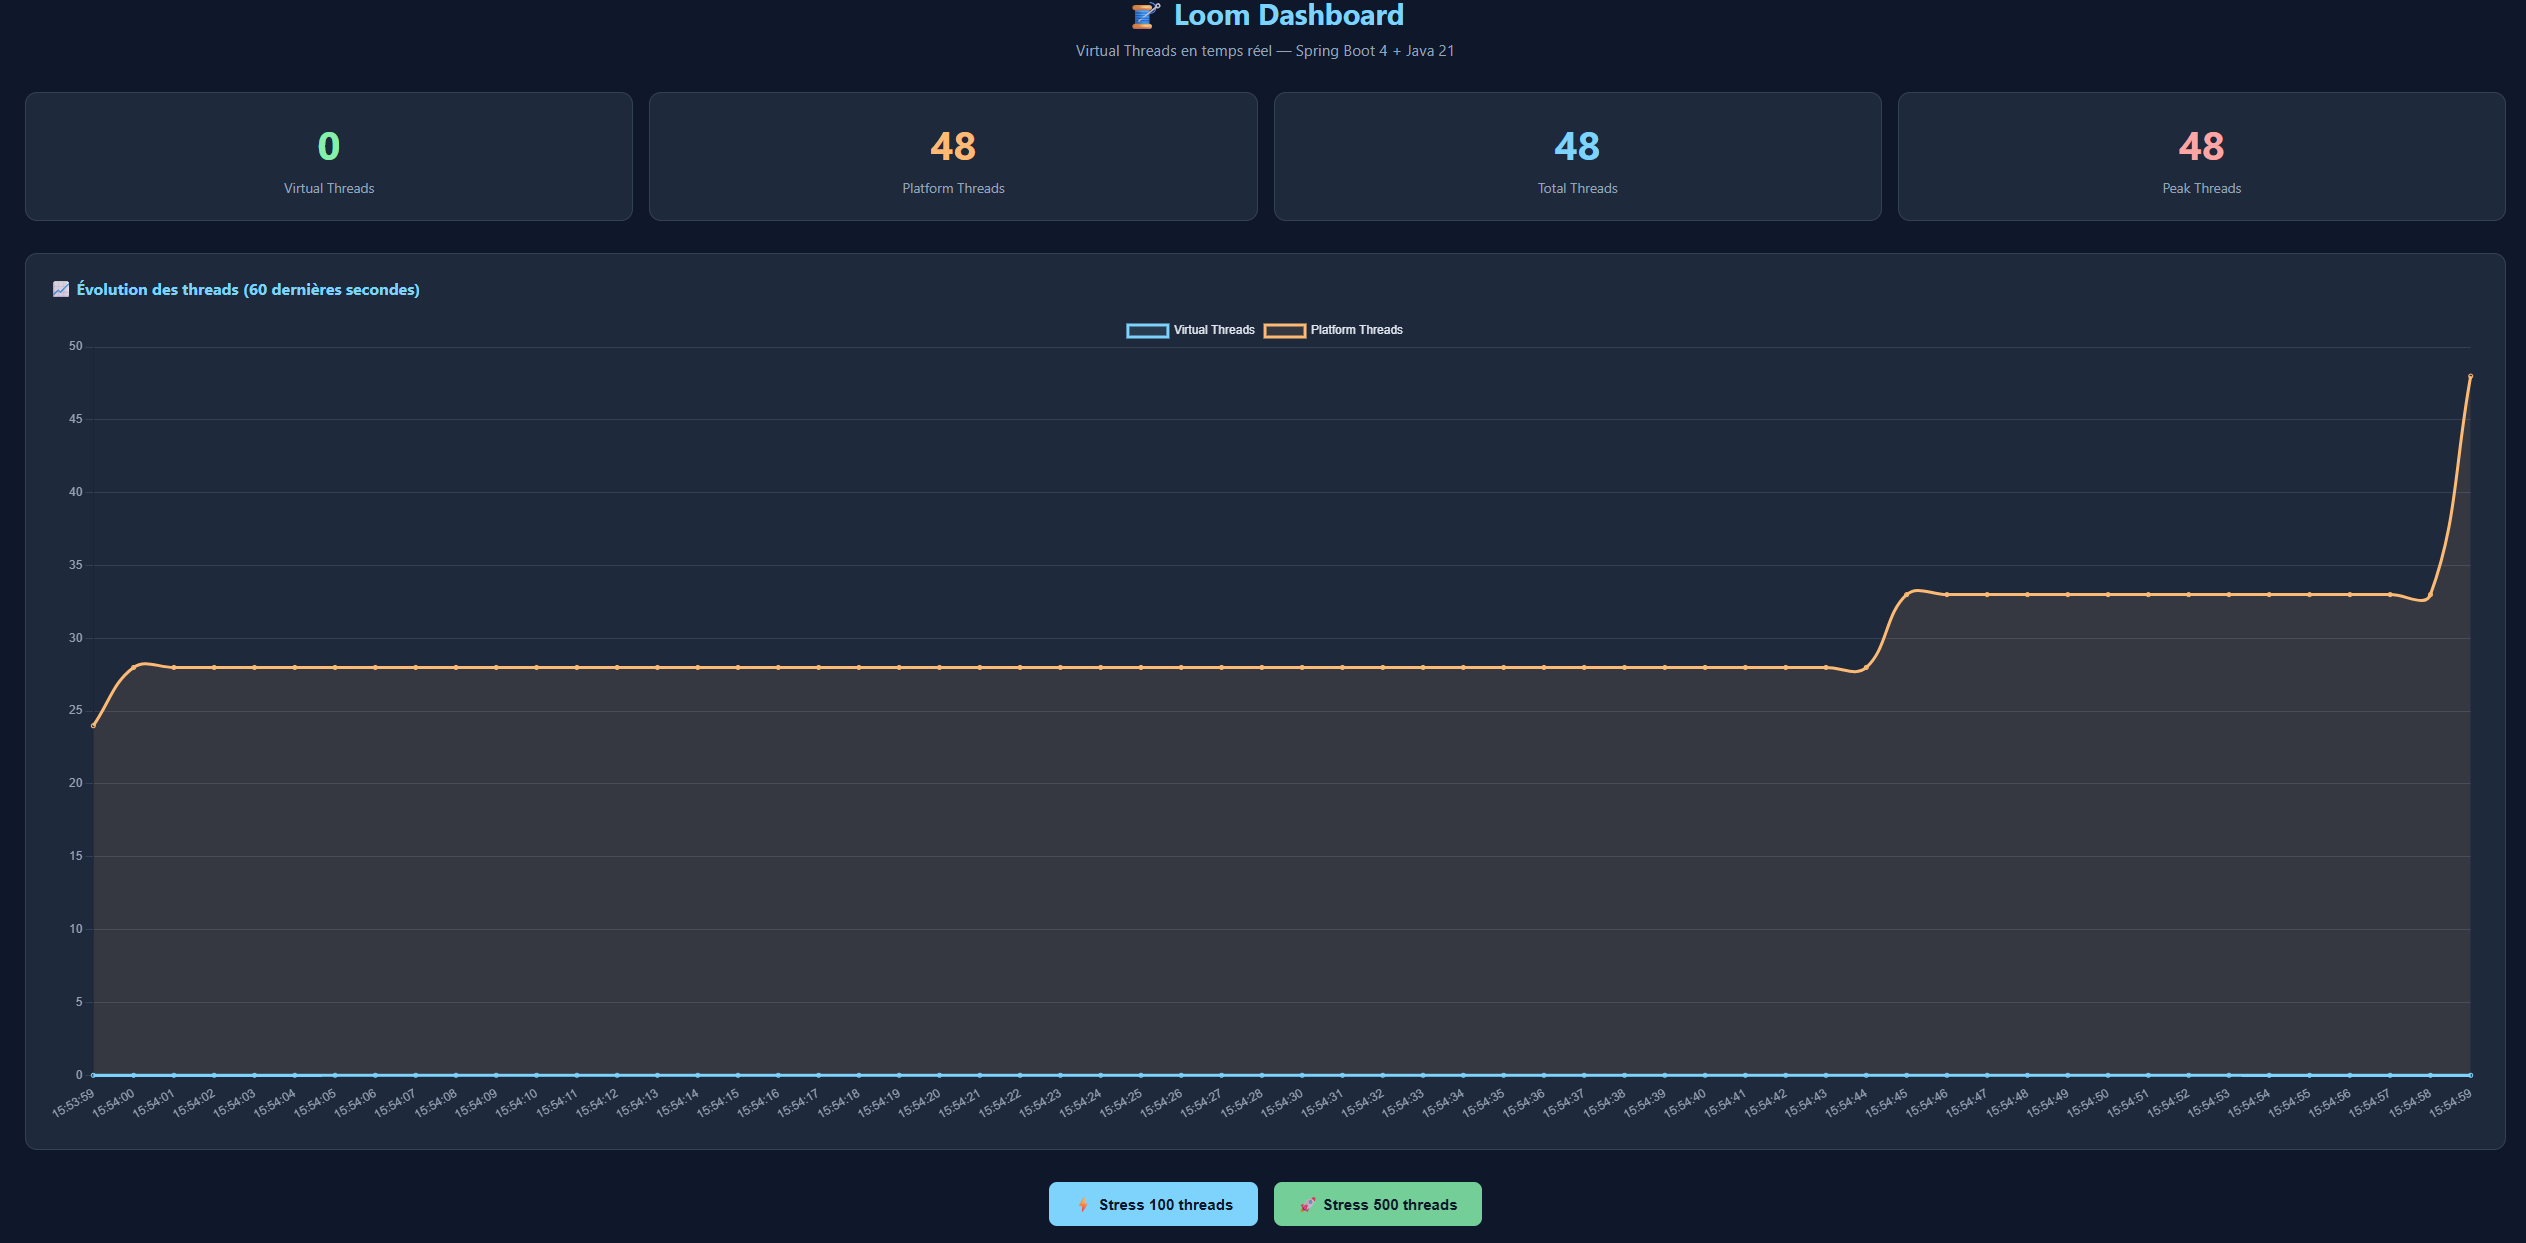
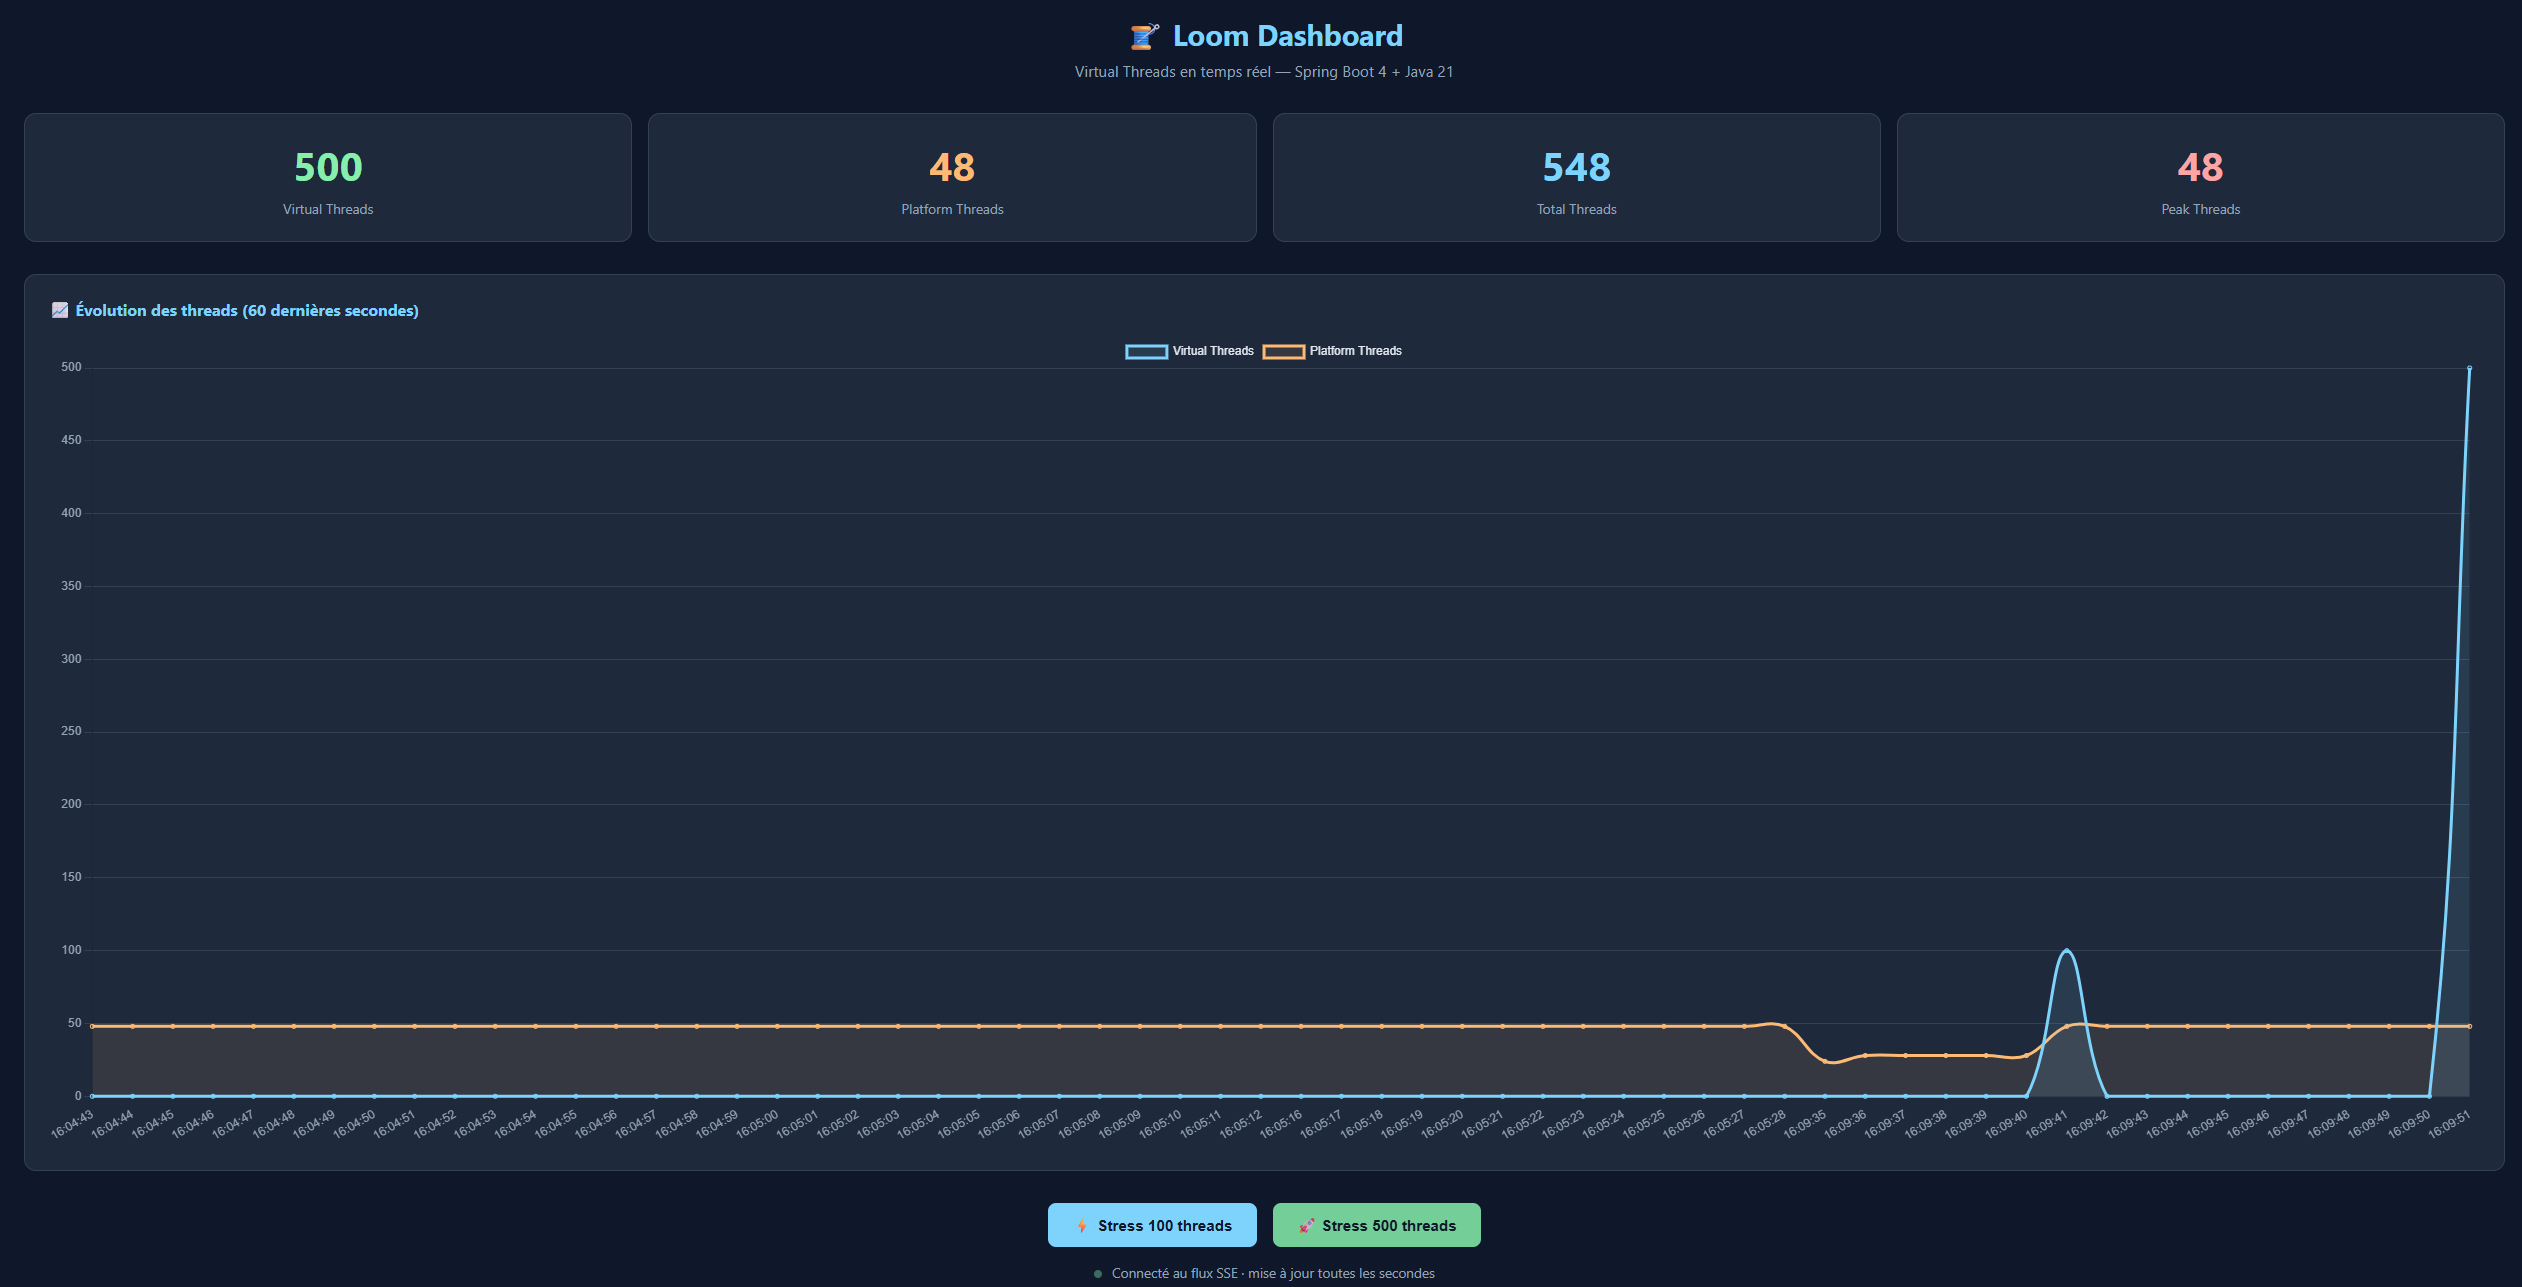
fix: virtual threads counter with atomiclong

diff --git a/src/main/java/dev/mikablondo/loom_spring_playground/service/ThreadMetricsService.java b/src/main/java/dev/mikablondo/loom_spring_playground/service/ThreadMetricsService.java
@@ -5,6 +5,7 @@ import org.springframework.stereotype.Service;
 import java.lang.management.ManagementFactory;
 import java.lang.management.ThreadMXBean;
 import java.util.Map;
+import java.util.concurrent.atomic.AtomicLong;
 
 /**
  * Classe permettant de gérer les différentes métriques des threads JVM
@@ -16,24 +17,24 @@ public class ThreadMetricsService {
 
     private final ThreadMXBean threadMXBean = ManagementFactory.getThreadMXBean();
 
+    private final AtomicLong activeVirtualThreads = new AtomicLong(0);
+
+    public void incrementVirtual() { activeVirtualThreads.incrementAndGet(); }
+    public void decrementVirtual() { activeVirtualThreads.decrementAndGet(); }
+
     /**
      * Récupère les infos des différents threads en cours d'exécution
      *
      * @return une Map des différentes métriques avec leur valeur
      */
     public Map<String, Object> getMetrics() {
-        long virtualCount = Thread.getAllStackTraces().keySet().stream()
-                .filter(Thread::isVirtual)
-                .count();
-
-        long platformCount = Thread.getAllStackTraces().keySet().stream()
-                .filter(t -> !t.isVirtual())
-                .count();
+        long virtualCount = activeVirtualThreads.get();
+        long platformCount = threadMXBean.getThreadCount();
 
         return Map.of(
                 "virtualThreads", virtualCount,
                 "platformThreads", platformCount,
-                "totalThreads", threadMXBean.getThreadCount(),
+                "totalThreads", virtualCount + platformCount,
                 "peakThreads", threadMXBean.getPeakThreadCount(),
                 "timestamp", System.currentTimeMillis()
         );

diff --git a/src/main/java/dev/mikablondo/loom_spring_playground/service/LoomService.java b/src/main/java/dev/mikablondo/loom_spring_playground/service/LoomService.java
@@ -1,11 +1,16 @@
 package dev.mikablondo.loom_spring_playground.service;
 
+import lombok.RequiredArgsConstructor;
 import lombok.extern.log4j.Log4j2;
 import org.springframework.stereotype.Service;
 
 @Service
 @Log4j2
+@RequiredArgsConstructor
 public class LoomService {
+
+    private final ThreadMetricsService metricsService;
+
     /**
      * Simule une action plutôt lente
      * @param id identifiant de la tâche
@@ -13,8 +18,13 @@ public class LoomService {
      * @throws InterruptedException en cas d'erreur
      */
     public String slowTask(int id) throws InterruptedException {
-        log.info("Thread {} isVirtual: {}", id, Thread.currentThread().isVirtual());
-        Thread.sleep(1000);
-        return "Tâche %d réalisée par %s".formatted(id, Thread.currentThread());
+        metricsService.incrementVirtual();
+        try {
+            log.info("Thread {} isVirtual: {}", id, Thread.currentThread().isVirtual());
+            Thread.sleep(1000);
+            return "Tâche %d réalisée par %s".formatted(id, Thread.currentThread());
+        } finally {
+            metricsService.decrementVirtual();
+        }
     }
 }

diff --git a/README.md b/README.md
@@ -2,7 +2,7 @@
 Exploring Java virtual threads with Spring Boot and Project Loom.
 
 ## Postman example
-![img.png](docs/images/img.png)
+![img.png](docs/images/postman.png)
 
 ## Metrics
 